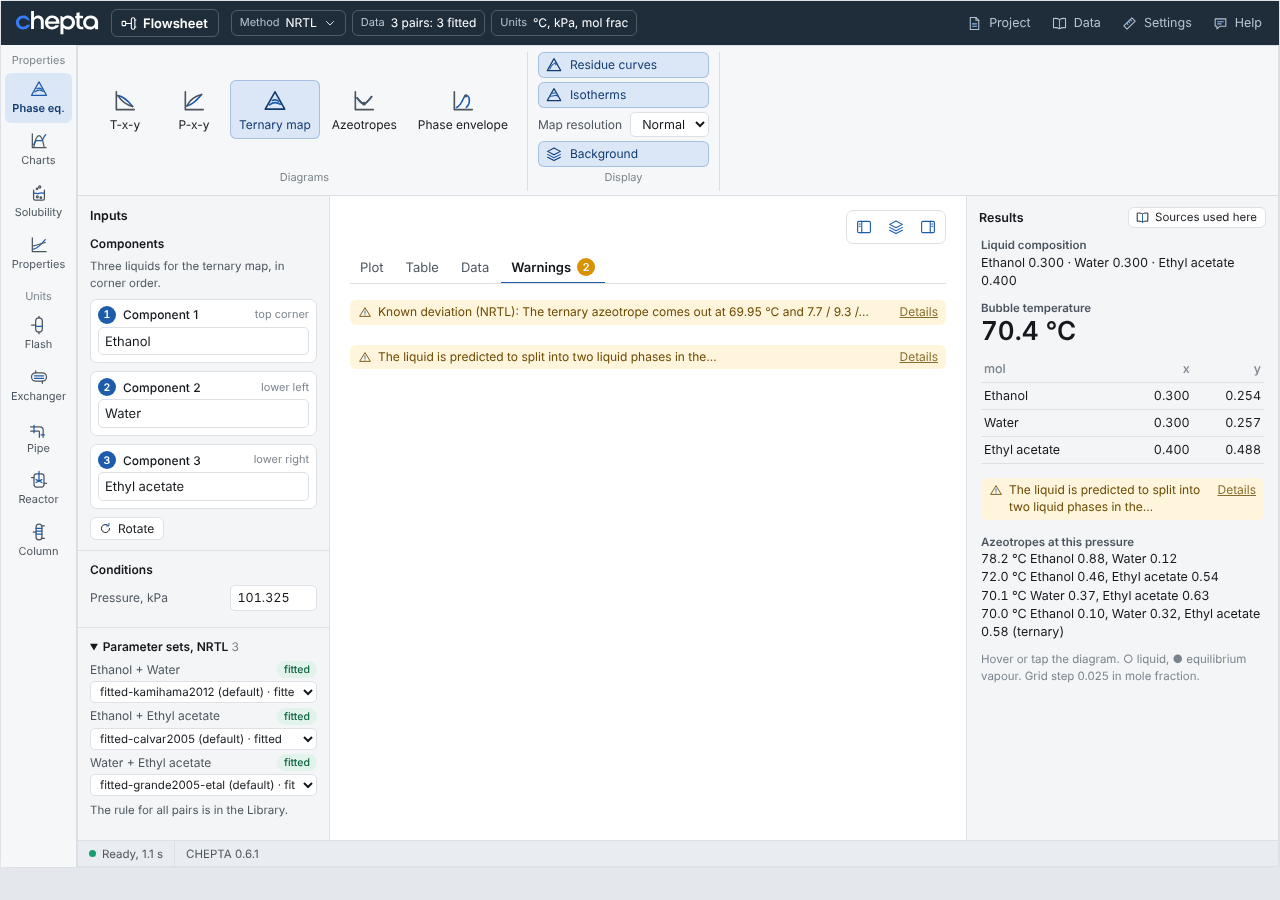
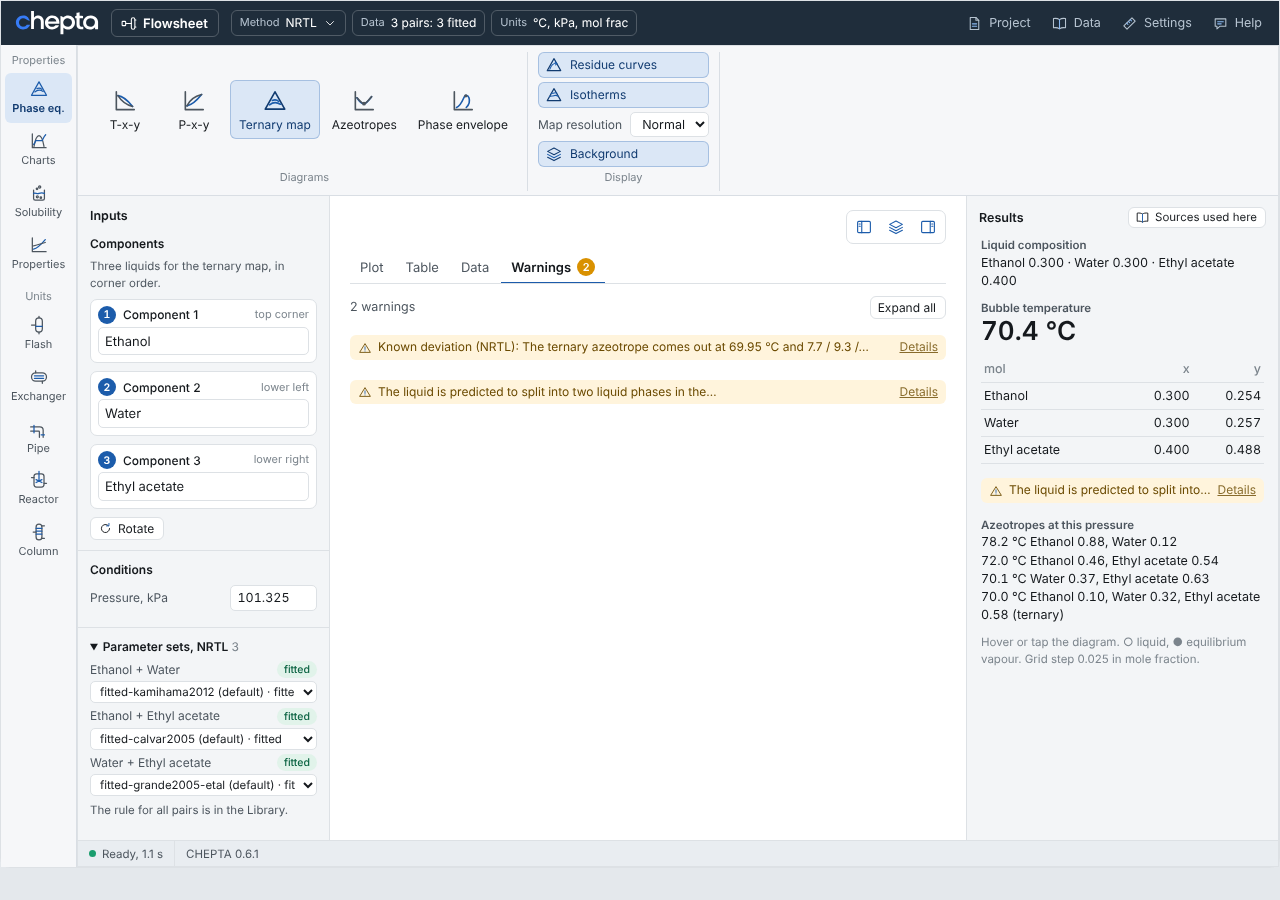
Proposal 0021 step 2: warnings in two steps in the new layout (one line, then the text; Expand all); answers recorded
Claude-Session: https://claude.ai/code/session_01FPbeWUQUvGVgVGax2pHMRY

Changed region(s): [[0.25, 0.3111, 0.75, 0.4667], [0.75, 0.56, 1.0, 0.7778]]

diff --git a/src/ui/canvas-tabs.js b/src/ui/canvas-tabs.js
@@ -68,6 +68,11 @@ export function warningCount({ warnings = 0, error = null, missing = null } = {}
   return warnings + (error ? 1 : 0) + problems;
 }
 
+/** The line above the list of the Warnings tab: "1 warning", "3 warnings". */
+export const warningsHeading = n => `${n} warning${n === 1 ? "" : "s"}`;
+/** The label of the button that opens or closes every warning of the list, by whether all are open now. */
+export const allLabel = allOpen => (allOpen ? "Collapse all" : "Expand all");
+
 /** The rows of a table shown on the Table tab: at most `max`, the rest in the Excel file. */
 export const TABLE_ROWS = 300;
 export function tablePreview(table, max = TABLE_ROWS) {
@@ -104,6 +109,52 @@ export function exportTables(desc) {
         h("tbody", {}, ...p.rows.map(r => h("tr", {}, ...r.map(v => h("td", { class: "fug-num" }, cellText(v)))))))),
       p.cut ? h("p", { class: "fug-foot" }, `The first ${p.rows.length} of ${p.total} rows; every row is in the Excel file.`) : null);
   }));
+}
+
+let seq = 0;
+/**
+ * A warning in two steps (the maintainer, 2026-11-12: "so the person is not overloaded"): one line, its title or first
+ * sentence, then the whole text when the person presses it. A <details class="fa-warn"> of warning.js becomes a button
+ * with aria-expanded and the region it opens; its body's nodes are moved, so their buttons keep working. A warning
+ * that is whole in one line (no more to say), or any other node, is returned as it is.
+ * @param {Element} node
+ * @param {{open?:boolean, onToggle?:()=>void}} [o]  open: shown whole from the start (an error that stopped the calculation)
+ */
+export function twoStepWarning(node, { open = false, onToggle } = {}) {
+  if (!node?.matches?.("details.fa-warn")) return node;
+  const head = node.querySelector(":scope > summary .fa-warn-head")?.textContent ?? "";
+  const body = node.querySelector(":scope > .fa-warn-body");
+  const id = `fa-w2-${++seq}`;
+  const region = h("div", { class: "fa-warn-body", id, role: "region", "aria-label": head }, ...(body ? [...body.childNodes] : []));
+  if (!region.childNodes.length) region.append(h("p", {}, head));
+  const more = h("span", { class: "fa-warn-more" });
+  const btn = h("button", { type: "button", class: "fa-warn-line", "aria-controls": id, "data-fk": "warn-toggle" },
+    h("span", { class: "fa-warn-sign", "aria-hidden": "true" }, icon("warn", 14)), h("span", { class: "fa-warn-head" }, head), more);
+  const set = on => { btn.setAttribute("aria-expanded", String(on)); region.hidden = !on; more.textContent = on ? "Less" : "Details"; out.classList.toggle("is-open", on); };
+  const attrs = {};
+  for (const a of ["role", "data-fk"]) if (node.getAttribute(a)) attrs[a] = node.getAttribute(a);
+  const out = h("div", { class: "fa-warn fa-warn2", ...attrs }, btn, region);
+  out.setOpen = set;
+  btn.addEventListener("click", () => { set(btn.getAttribute("aria-expanded") !== "true"); onToggle?.(); });
+  set(open);
+  return out;
+}
+
+/**
+ * The list of the Warnings tab: "3 warnings" and an Expand all button (aria-expanded: all open), then each warning
+ * in two steps (twoStepWarning). `open`: the nodes shown whole from the start.
+ * @param {Node[]} items
+ * @param {{open?:Set<Node>}} [o]
+ */
+export function warningList(items, { open = new Set() } = {}) {
+  const all = h("button", { type: "button", class: "fa-mini", "data-fk": "warn-all" });
+  const rows = items.map(n => twoStepWarning(n, { open: open.has(n), onToggle: () => sync() }));
+  const toggles = () => rows.filter(r => typeof r.setOpen === "function");
+  const allOpen = () => toggles().every(r => r.querySelector(".fa-warn-line").getAttribute("aria-expanded") === "true");
+  function sync() { const on = allOpen(); all.setAttribute("aria-expanded", String(on)); all.textContent = allLabel(on); }
+  all.addEventListener("click", () => { const on = !allOpen(); for (const r of toggles()) r.setOpen(on); sync(); });
+  sync();
+  return [h("div", { class: "fa-warn-bar" }, h("span", { class: "fa-warn-count" }, warningsHeading(items.length)), toggles().length ? all : null), ...rows];
 }
 
 const KIND = {
@@ -158,4 +209,10 @@ export const CANVAS_TABS_CSS = `
 .fa-tab-data .fa-meas{margin-top:0; padding-top:0; border-top:0}
 .fa-tab-line{margin:2px 0 0; font-size:12.5px}
 .fa-tab-none{color:var(--fug-fg2); font-size:12.5px}
+.fa-warn-bar{display:flex; align-items:center; justify-content:space-between; gap:8px; font-size:12.5px; color:var(--fug-fg2)}
+.fa-warn2{padding:0; contain:inline-size}
+.fa-warn-line{display:flex; align-items:center; gap:6px; width:100%; border:0; background:transparent; color:inherit; font:inherit; text-align:left; padding:4px 8px; cursor:pointer; border-radius:6px}
+.fa-warn-line:focus-visible{outline:2px solid currentColor; outline-offset:-2px}
+.fa-warn2:not(.is-open) .fa-warn-line .fa-warn-head{white-space:nowrap; overflow:hidden; text-overflow:ellipsis}
+.fa-warn2 .fa-warn-body[hidden]{display:none}
 `;

diff --git a/src/ui/app.js b/src/ui/app.js
@@ -55,7 +55,7 @@ import { SOLID_UNITS } from "./solubility-units.js";
 import pkg from "../../package.json" with { type: "json" };
 import { appNext } from "./app-next.js";
 import { shellContext, sourcesOf, statusOf, setsRuleOf, unitsOf, isBlank, OWN_METHOD, dataOf, missingOf } from "./shell-contract.js";
-import { CANVAS_TABS, tabLabel, tabOf, tabMove, staysOnCanvas, warningCount, exportTables, dataPane } from "./canvas-tabs.js";
+import { CANVAS_TABS, tabLabel, tabOf, tabMove, staysOnCanvas, warningCount, exportTables, dataPane, warningList, twoStepWarning } from "./canvas-tabs.js";
 
 const PROPERTY_GLYPHS = [
   ["density", () => "ρ", "Density"], ["enthalpy", () => "h", "Enthalpy"], ["cp", () => ["c", h("sub", {}, "p")], "Heat capacity"],
@@ -1355,14 +1355,17 @@ export function app(target, cfg = {}) {
     for (const n of [...notes.children]) {
       if (n.classList.contains("fa-userdata-note")) dataOwn.append(n);
       else if (staysOnCanvas({ role: n.getAttribute("role") })) { if (n.matches(".fa-warn, .fug-warn")) items.push(n.cloneNode(true)); }
-      else items.push(n);
+      else { n.remove(); items.push(n); }
     }
-    for (const w of side.querySelectorAll(".fa-warn")) items.push(w.cloneNode(true));
+    // the Results panel's warnings: listed in the tab too, and in two steps there as well (one line, then the text)
+    for (const w of side.querySelectorAll(".fa-warn")) { items.push(w.cloneNode(true)); w.replaceWith(twoStepWarning(w)); }
     const missing = check.ok ? null : missingOf(state);
     const problems = missing && !missing.blank ? missing.problems.map(p => warning(p.message, { attrs: { role: "note" } })) : [];
     const err = error ? [warning(error, { title: `Not calculated: ${summaryOf(error)}`, attrs: { role: "note" } })] : [];
     const count = warningCount({ warnings: items.length, error, missing });
-    warnBox.replaceChildren(...err, ...problems, ...items);
+    // in two steps (the maintainer, 2026-11-12): one line each and the count, the whole text when pressed; the error
+    // that stopped the calculation is shown whole
+    warnBox.replaceChildren(...(count ? warningList([...err, ...problems, ...items], { open: new Set(err) }) : []));
     if (!count) warnBox.append(h("p", { class: "fa-tab-none" }, check.ok || missing?.blank ? "No warning: nothing in this calculation needs a remark." : "No warning."));
     ui.warnCount = count;
     renderTabs();

diff --git a/test/canvas-tabs.test.js b/test/canvas-tabs.test.js
@@ -2,7 +2,7 @@
 // tabs themselves are checked on screenshots (docs/ui-review/2026-11-12-0021-canvas-tabs/).
 import { test } from "node:test";
 import assert from "node:assert/strict";
-import { CANVAS_TABS, tabLabel, tabOf, tabMove, staysOnCanvas, warningCount, tablePreview, cellText } from "../src/ui/canvas-tabs.js";
+import { CANVAS_TABS, tabLabel, tabOf, tabMove, staysOnCanvas, warningCount, tablePreview, cellText, warningsHeading, allLabel } from "../src/ui/canvas-tabs.js";
 
 test("four tabs, in the proposal's order; the flowsheet's Plot is its Drawing", () => {
   assert.deepEqual(CANVAS_TABS.map(t => t.id), ["plot", "table", "data", "warnings"]);
@@ -57,4 +57,11 @@ test("the Table tab shows at most 300 rows, the rest in the Excel file; cells wi
   assert.equal(cellText(null), "–");
   assert.equal(cellText(NaN), "–");
   assert.equal(cellText("one liquid"), "one liquid");
+});
+
+test("the Warnings tab in two steps: the count above the one-line list, and one button for all", () => {
+  assert.equal(warningsHeading(1), "1 warning");
+  assert.equal(warningsHeading(3), "3 warnings");
+  assert.equal(allLabel(false), "Expand all");
+  assert.equal(allLabel(true), "Collapse all");
 });

diff --git a/docs/decisions/2026-11-12-04-ui-0021-canvas-tabs.md b/docs/decisions/2026-11-12-04-ui-0021-canvas-tabs.md
@@ -18,7 +18,7 @@ docs/decisions/2026-11-12-01-ui-0021-shell-contract.md.
 | The workbench builds the tabs when the new layout asks (`canvasTabs`, an internal key the classic layout never sets); after each calculation it sorts the canvas notes into the tabs; the Table and Data panes are built when first opened; `api.shell.tab(id)` opens one | `src/ui/app.js` |
 | A view can put its own table and data in the tabs (`ctx.tabs`): the Flash's stream table and its CSV buttons go to Table; the list of measured sets under a T-x-y or P-x-y goes to Data. Without `ctx.tabs` (the classic layout) both are where they were | `src/ui/app-views.js` |
 | The shell asks for the tabs and adds their styles | `src/ui/app-next.js` |
-| Tests | `test/canvas-tabs.test.js` (5 tests); `test/app.test.js`, `test/app-next.test.js`, `test/shell-contract.test.js` unchanged |
+| Tests | `test/canvas-tabs.test.js` (6 tests); `test/app.test.js`, `test/app-next.test.js`, `test/shell-contract.test.js` unchanged |
 | Screenshots, both layouts, 375 and 1280 px, light and dark | `docs/ui-review/2026-11-12-0021-canvas-tabs/` |
 
 What each tab holds, in every workspace:
@@ -72,4 +72,32 @@ or water. Making that filter stricter is a change of the Sources panel too, so i
 | 3 | The Table tab shows at most 300 rows of an export table (the rest in the Excel file)? | Yes: the T-x-y has 101 rows; a ternary map's grid has thousands, which a page draws slowly. |
 | 4 | The context row's Data button opens the Data tab instead of the Sources panel (one door to the sources, the proposal's finding 3)? Not changed here. | Yes, in step 3 or with the flowsheet's tabs (step 5); the Data tab keeps a button to the Sources panel. |
 
-The answers are recorded here when given.
+## Decided (the maintainer, 2026-11-12, relayed by the coordinating session)
+
+All four as recommended:
+
+1. An error that stopped the calculation and "Solving in the background" stay above the tabs (and are listed in
+   Warnings).
+2. The Flash's Plot tab holds the phase split; its stream table is on the Table tab.
+3. The Table tab shows at most 300 rows; the rest are in the Excel file.
+4. The context row's Data button opens the Data tab instead of the Sources panel, in step 3 or 5 (not in this pull
+   request).
+
+One change asked in this pull request: **warnings in two steps**, "so the person is not overloaded": a short form
+first, the full text only when the person presses it, one at a time or all at once; an error that stops the
+calculation stays fully shown; keyboard-accessible (a button with aria-expanded); the classic layout unchanged.
+
+Built (`twoStepWarning` and `warningList` in `src/ui/canvas-tabs.js`):
+
+- the Warnings tab starts with the count ("2 warnings") and an **Expand all** button (aria-expanded; "Collapse all"
+  when every warning is open); each warning is one line, its title or first sentence, cut with "..." where it does
+  not fit, and a **Details** button (aria-expanded, aria-controls) that opens its whole text ("Less" closes it);
+- the error that stopped the calculation is listed open; an error above the tabs (role "alert") stays as it is,
+  fully shown;
+- the warnings of the Results panel take the same form in the new layout; nothing else lists warnings above the tabs
+  (the known deviations and notes moved into the Warnings tab);
+- a warning that is whole in one line (nothing more to say) is shown as it is, with no button;
+- the classic layout keeps its warnings as they are (`warning.js` is not changed).
+
+Screenshots: 12 (short form, 1280 px, light), 13 (expanded with Expand all, 1280 px, dark), 14 (short form, 375 px,
+light); 07 and 08 retaken in the new form.

diff --git a/docs/DECISIONS.md b/docs/DECISIONS.md
@@ -20,8 +20,8 @@ Pull requests are in `FaireDose/CHEPTA` (formerly `FaireDose/Fugacity`; the old 
   (docs/decisions/2026-11-12-01-ui-0021-shell-contract.md; answered 2026-11-12: `api.shell` hidden until step 4, the
   Method page for Flowsheet/Column/Reactor, an empty flowsheet opening on Inputs on a phone). Step 2, the canvas tabs
   (Plot, Table, Data, Warnings) in every workspace of the new layout, is built and in review
-  (docs/decisions/2026-11-12-04-ui-0021-canvas-tabs.md; four questions: errors above the tabs, the flash's Plot tab,
-  the Table tab's row limit, the Data button opening the Data tab). Next: 3. numbered steps for Flash, Heat exchanger and Pipe; then the first additions (measured VLE points on T-x-y, the x-y, gamma and alpha diagrams, the flowsheet's tabs
+  (docs/decisions/2026-11-12-04-ui-0021-canvas-tabs.md; the four questions answered 2026-11-12 as recommended, and the
+  warnings shown in two steps, one line then the text; the Data button opening the Data tab comes in step 3 or 5). Next: 3. numbered steps for Flash, Heat exchanger and Pipe; then the first additions (measured VLE points on T-x-y, the x-y, gamma and alpha diagrams, the flowsheet's tabs
   and examples). The new layout becomes the default only after steps 1-3 and a check by users; "classic" is kept for
   two released versions.
 - **Measured points and the x-y, γ and α plots** (proposal 0021, answer 7, (a) and (b);
